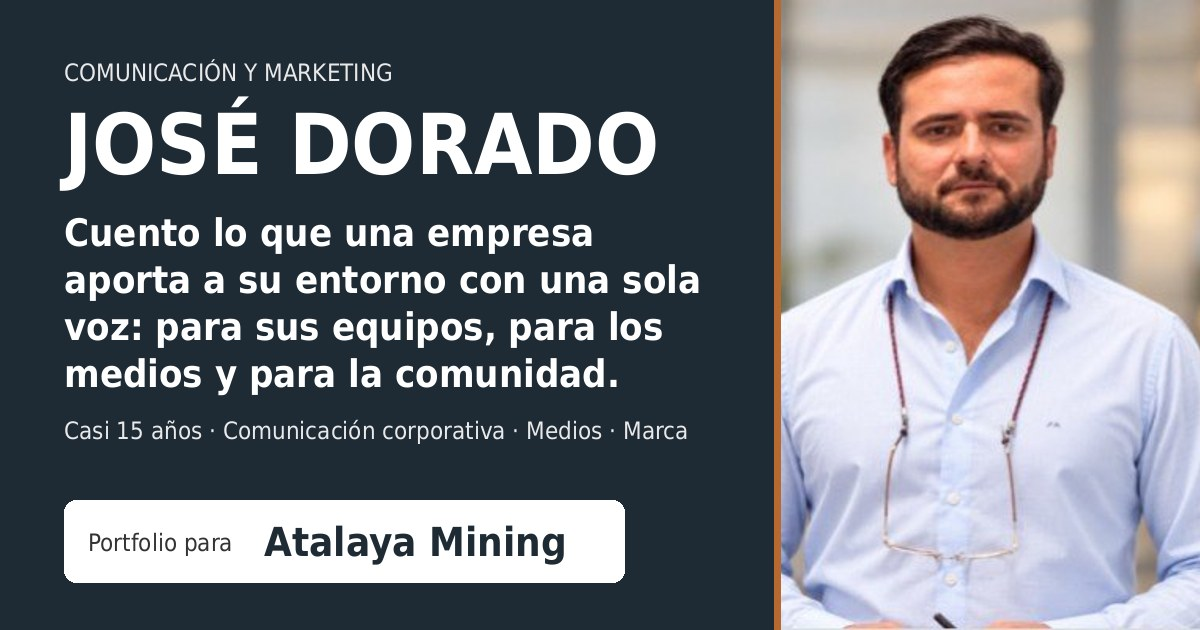
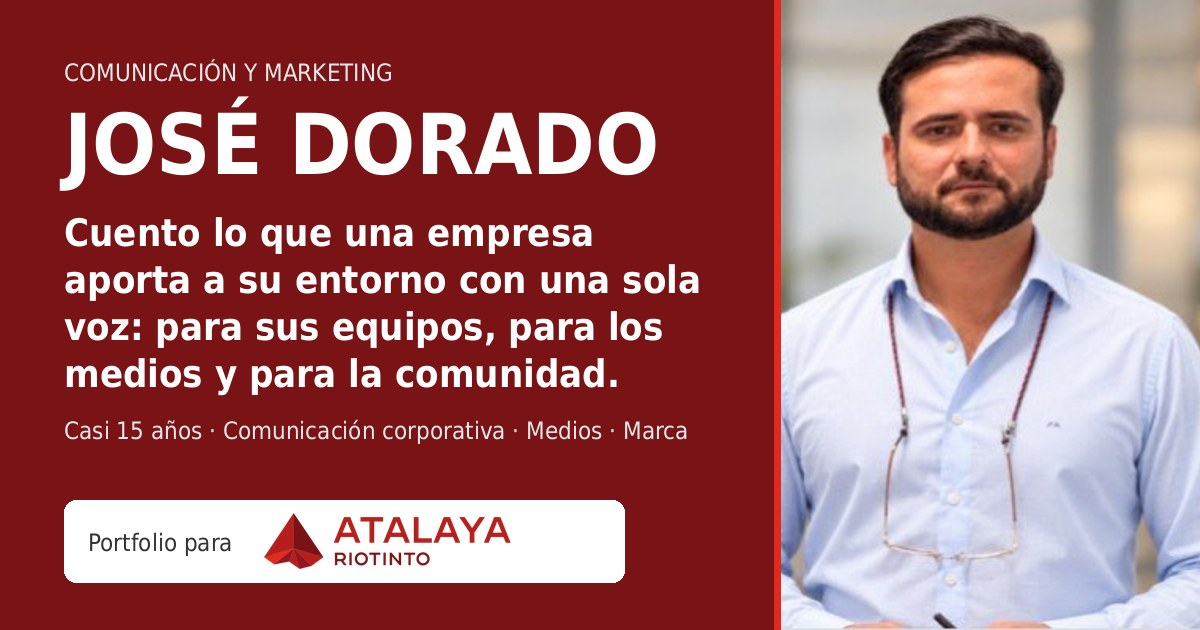
Add files via upload

diff --git a/atalaya/css/styles.css b/atalaya/css/styles.css
@@ -1,36 +1,37 @@
 /* Layout concept: una "ficha técnica" de cine aplicada a un perfil de comunicación. Versión Atalaya Mining.
-   Paleta provisional inspirada en el cobre y en el distrito de Riotinto (pendiente de la paleta corporativa):
-   pizarra #1e2b35 (primario) · cobre #b8692f (secundario) · rojo Riotinto #a8331f (terciario) ·
-   ocre #c99a3a · arena #efe3d3. El cobre y el rojo solo van en filetes, marcas y acentos, nunca en texto corrido. */
+   Paleta corporativa tomada del logo de Atalaya Riotinto:
+   rojo Atalaya #b41f1d (primario) · granate #791316 (secundario) · carmín #94151c · rojo vivo #e02a1f (acento).
+   El rojo vivo solo va en filetes y marcas pequeñas; el texto corrido queda en gris cálido oscuro. */
 :root {
-  --pizarra: #1e2b35; --cobre: #b8692f; --riotinto: #a8331f; --ocre: #c99a3a; --arena: #efe3d3;
+  --rojo: #b41f1d; --granate: #791316; --carmin: #94151c; --vivo: #e02a1f;
 
-  --bg: #f6f2ec;
-  --surface: #fffdf9;
-  --ink: #1b252d;
-  --muted: #4d5963;
-  --line: #ddd3c5;
-  --rule: var(--pizarra);
-  --deco: #c2b29b;
-  --accent: var(--cobre);
-  --tertiary: var(--riotinto);
-  --accent-ink: #8a4a1c;
-  --arrow: var(--cobre);
-  --btn-bg: var(--pizarra); --btn-ink: #f6f2ec; --btn-hover: #2c3d4a;
-  --tag-bg: var(--pizarra); --tag-ink: #f6f2ec;
-  --band: var(--pizarra);
-  --band-ink: #f6f2ec;
-  --band-muted: #c8cfd4;
-  --band-accent: #e3a874;
-  --band-card: #263643;
-  --band-line: #3a4c5a;
-  --ph-bg: #f3e6d2;
-  --ph-ink: #6b3e14;
-  --ph-line: var(--cobre);
-  --focus: var(--riotinto);
+  --bg: #f7f3f1;
+  --surface: #fffdfc;
+  --ink: #241b1b;
+  --heading: var(--rojo);
+  --muted: #5a4a49;
+  --line: #e3d6d3;
+  --rule: var(--granate);
+  --deco: #cdb5b1;
+  --accent: var(--rojo);
+  --tertiary: var(--vivo);
+  --accent-ink: var(--rojo);
+  --arrow: var(--rojo);
+  --btn-bg: var(--rojo); --btn-ink: #ffffff; --btn-hover: var(--carmin);
+  --tag-bg: var(--granate); --tag-ink: #ffffff;
+  --band: var(--granate);
+  --band-ink: #f7f3f1;
+  --band-muted: #e9c9c6;
+  --band-accent: #ffb3aa;
+  --band-card: #8a1a1d;
+  --band-line: #a3363a;
+  --ph-bg: #f8e3e0;
+  --ph-ink: var(--granate);
+  --ph-line: var(--rojo);
+  --focus: var(--vivo);
   --mark: transparent;
-  --link-line: #e3b48b;
-  --t1-bg: #f6e9dc;
+  --link-line: #eaa59e;
+  --t1-bg: #f9e7e4;
 
   --f-display: "Big Shoulders Display", "Arial Narrow", "Roboto Condensed", sans-serif;
   --f-body: "Schibsted Grotesk", "Helvetica Neue", Arial, sans-serif;
@@ -43,22 +44,22 @@
 }
 @media (prefers-color-scheme: dark) {
   :root:not([data-theme="light"]) {
-    --bg: #11181e; --surface: #18222a; --ink: #eef0f1; --muted: #b9c2c9; --line: #2b3a46; --rule: var(--cobre); --deco: #3c4c58;
-    --accent: #d98a4f; --tertiary: #e0624a; --accent-ink: #e6a676; --arrow: #e3a874;
-    --btn-bg: #e3a874; --btn-ink: #1b252d; --btn-hover: #eebb8f; --link-line: #6b4a30;
-    --tag-bg: #e3a874; --tag-ink: #1b252d;
-    --band: #0b1116; --band-ink: #eef0f1; --band-muted: #b9c2c9; --band-accent: #e3a874; --band-card: #16212a; --band-line: #2b3a46;
-    --ph-bg: #2a2118; --ph-ink: #e3a874; --ph-line: var(--cobre); --focus: #e3a874; --mark: transparent; --t1-bg: #221a14;
+    --bg: #170d0d; --surface: #221414; --ink: #f6eeed; --heading: #f2928a; --muted: #c8b9b8; --line: #3d2424; --rule: var(--vivo); --deco: #4f3030;
+    --accent: #f2928a; --tertiary: #ff6b5e; --accent-ink: #f2928a; --arrow: #f2928a;
+    --btn-bg: #f2928a; --btn-ink: #170d0d; --btn-hover: #f6aea8; --link-line: #6b3330;
+    --tag-bg: #f2928a; --tag-ink: #170d0d;
+    --band: #5c0e11; --band-ink: #f6eeed; --band-muted: #e9c9c6; --band-accent: #ffd0cb; --band-card: #6e1417; --band-line: #8a2a2d;
+    --ph-bg: #2c1515; --ph-ink: #f2928a; --ph-line: var(--rojo); --focus: #ff6b5e; --mark: transparent; --t1-bg: #2a1414;
     color-scheme: dark;
   }
 }
 :root[data-theme="dark"] {
-    --bg: #11181e; --surface: #18222a; --ink: #eef0f1; --muted: #b9c2c9; --line: #2b3a46; --rule: var(--cobre); --deco: #3c4c58;
-    --accent: #d98a4f; --tertiary: #e0624a; --accent-ink: #e6a676; --arrow: #e3a874;
-    --btn-bg: #e3a874; --btn-ink: #1b252d; --btn-hover: #eebb8f; --link-line: #6b4a30;
-    --tag-bg: #e3a874; --tag-ink: #1b252d;
-    --band: #0b1116; --band-ink: #eef0f1; --band-muted: #b9c2c9; --band-accent: #e3a874; --band-card: #16212a; --band-line: #2b3a46;
-    --ph-bg: #2a2118; --ph-ink: #e3a874; --ph-line: var(--cobre); --focus: #e3a874; --mark: transparent; --t1-bg: #221a14;
+    --bg: #170d0d; --surface: #221414; --ink: #f6eeed; --heading: #f2928a; --muted: #c8b9b8; --line: #3d2424; --rule: var(--vivo); --deco: #4f3030;
+    --accent: #f2928a; --tertiary: #ff6b5e; --accent-ink: #f2928a; --arrow: #f2928a;
+    --btn-bg: #f2928a; --btn-ink: #170d0d; --btn-hover: #f6aea8; --link-line: #6b3330;
+    --tag-bg: #f2928a; --tag-ink: #170d0d;
+    --band: #5c0e11; --band-ink: #f6eeed; --band-muted: #e9c9c6; --band-accent: #ffd0cb; --band-card: #6e1417; --band-line: #8a2a2d;
+    --ph-bg: #2c1515; --ph-ink: #f2928a; --ph-line: var(--rojo); --focus: #ff6b5e; --mark: transparent; --t1-bg: #2a1414;
     color-scheme: dark;
 }
 
@@ -555,3 +556,22 @@ details.more[open] .inner { animation: more-in .24s var(--ease-out); }
 .hero .numbers { animation: hero-in 1s var(--ease-out) 1200ms backwards; }
 /* Texto solo para lectores de pantalla */
 .vh { position: absolute !important; width: 1px; height: 1px; padding: 0; margin: -1px; overflow: hidden; clip: rect(0 0 0 0); white-space: nowrap; border: 0; }
+
+/* ---------- Atalaya Mining: títulos en rojo corporativo y logo junto al nombre ---------- */
+h1, h2, h3, h4, .brand, .numbers .n, .sheet-photo .who { color: var(--heading); }
+.credits h2, .credits h3, .credit-card h3 { color: var(--band-ink); }
+.brand span { color: var(--granate); }
+@media (prefers-color-scheme: dark) { :root:not([data-theme="light"]) .brand span { color: var(--ink); } }
+:root[data-theme="dark"] .brand span { color: var(--ink); }
+.brand-lockup { display: inline-flex; align-items: center; gap: var(--s3); min-width: 0; }
+.brand-x { font-family: var(--f-mono); font-size: 14px; color: var(--muted); }
+.co-logo { height: 30px; width: auto; display: block; }
+@media (max-width: 420px) { .brand-lockup { gap: var(--s2); } }
+@media (max-width: 760px) {
+  .brand-lockup { order: 1; padding-block: var(--s2); gap: var(--s2); }
+  .brand-lockup .brand { order: 0; padding-block: 0; font-size: 18px; }
+  .co-logo { height: 24px; }
+  .head-cta { min-height: 44px; padding: 0 var(--s4); }
+}
+.nav a { white-space: nowrap; }
+@media (min-width: 761px) and (max-width: 1180px) { .nav a { padding: 0 var(--s2); font-size: 14px; } }

diff --git a/atalaya/js/app.js b/atalaya/js/app.js
@@ -94,6 +94,14 @@
 
   /* ---------- Sección personalizada por empresa ---------- */
   var CO = D.company;
+  var brand = document.querySelector(".brand");
+  if (CO && CO.logo && brand && !document.querySelector(".brand-lockup")) {
+    var wrapL = document.createElement("span"); wrapL.className = "brand-lockup";
+    brand.parentNode.insertBefore(wrapL, brand); wrapL.appendChild(brand);
+    var logoImg = '<img class="co-logo" src="' + esc(CO.logo) + '" alt="' + esc(CO.name) + '" height="22">';
+    if (CO.logoDark) logoImg = '<picture><source srcset="' + esc(CO.logoDark) + '" media="(prefers-color-scheme: dark)">' + logoImg + '</picture>';
+    wrapL.insertAdjacentHTML("beforeend", '<span class="brand-x" aria-hidden="true">×</span>' + logoImg);
+  }
   var coSec = document.getElementById("empresa");
   if (CO && coSec) {
     coSec.innerHTML =

diff --git a/atalaya/index.html b/atalaya/index.html
@@ -3,8 +3,8 @@
 <head>
 <meta charset="utf-8">
 <meta name="viewport" content="width=device-width, initial-scale=1, viewport-fit=cover">
-<meta name="theme-color" media="(prefers-color-scheme: light)" content="#f6f2ec">
-<meta name="theme-color" media="(prefers-color-scheme: dark)" content="#11181e">
+<meta name="theme-color" media="(prefers-color-scheme: light)" content="#f7f3f1">
+<meta name="theme-color" media="(prefers-color-scheme: dark)" content="#170d0d">
 <meta name="color-scheme" content="light dark">
 <title>José Dorado · Comunicación corporativa para Atalaya Mining</title>
 <meta name="robots" content="noindex">

diff --git a/atalaya/js/content.js b/atalaya/js/content.js
@@ -43,6 +43,8 @@ window.PORTFOLIO = {
   company: {
     name: "Atalaya Mining",
     navLabel: "Para Atalaya",
+    logo: "assets/img/logo-atalaya.png",
+    logoDark: "assets/img/logo-atalaya-blanco.png",  /* versión para modo oscuro */
     eyebrow: "Por qué Atalaya Mining",
     title: "Lo que puedo aportar",
     intro:
